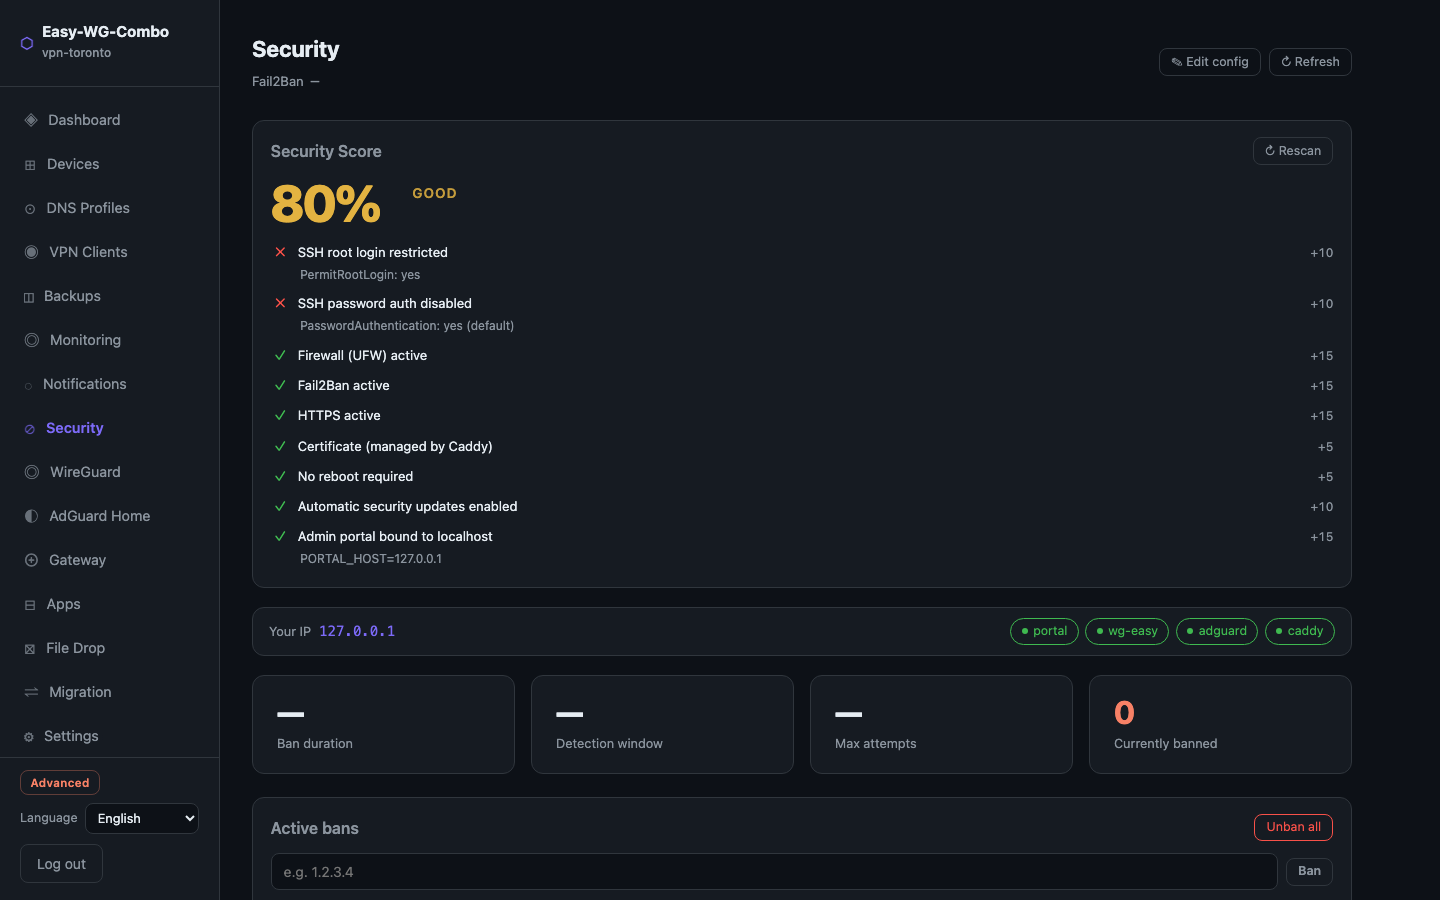
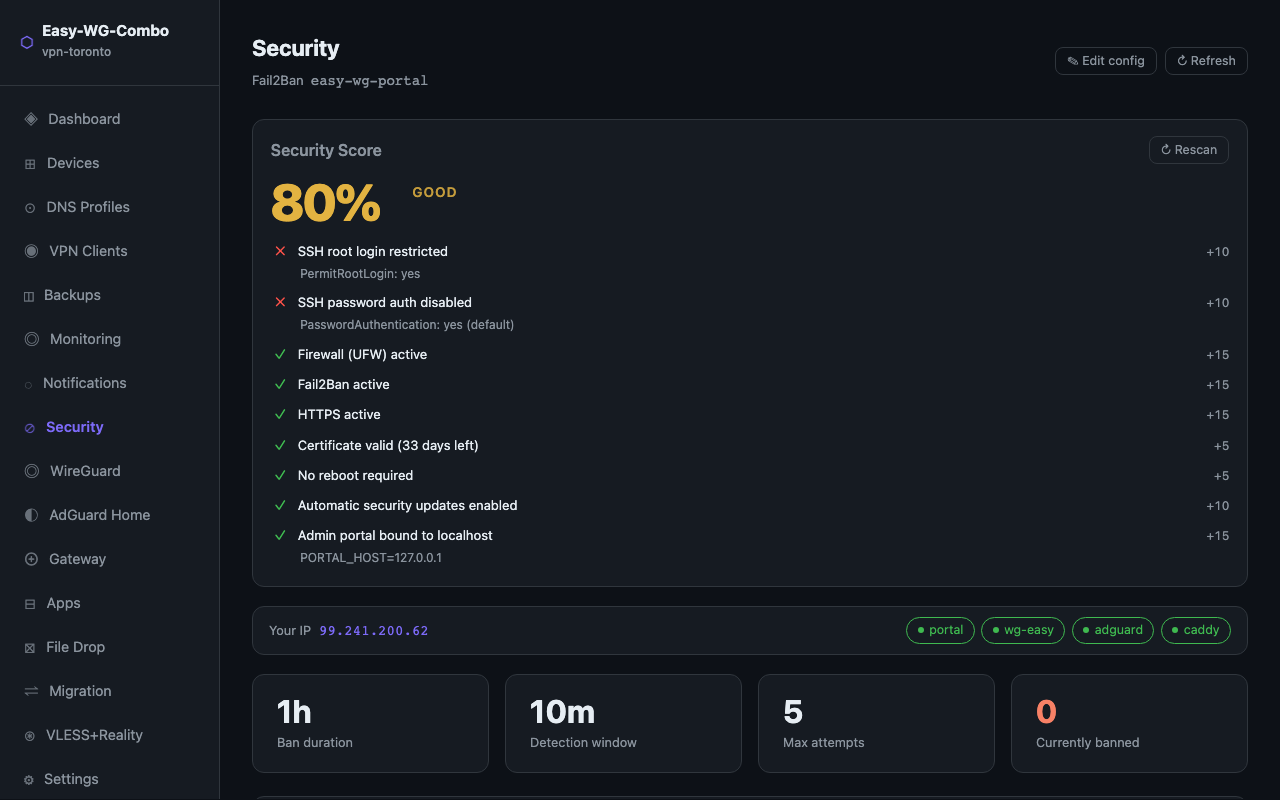
docs: add Xray screenshots + update clients/dashboard/settings/security captures
- xray-modal.png: VLESS QR modal (per-device URI + QR code)
- xray-tab.png: VLESS+Reality tab (service status + global URI generator)
- clients.png: updated — shows ⊛ VLESS button on device rows
- dashboard.png, settings.png, security.png: refreshed captures
- docs/xray.md: embed screenshots in documentation

diff --git a/docs/xray.md b/docs/xray.md
@@ -70,6 +70,19 @@ Login with your admin password as usual.
 
 ---
 
+## Screenshots
+
+**Devices tab — ⊛ VLESS button per device**
+![Devices with VLESS button](screenshots/clients.png)
+
+**VLESS QR modal — scan or copy the URI**
+![VLESS QR modal](screenshots/xray-modal.png)
+
+**VLESS+Reality tab — service status and global URI generator**
+![VLESS+Reality tab](screenshots/xray-tab.png)
+
+---
+
 ## Generating a client configuration
 
 ### Per device — from the Devices tab (recommended)
